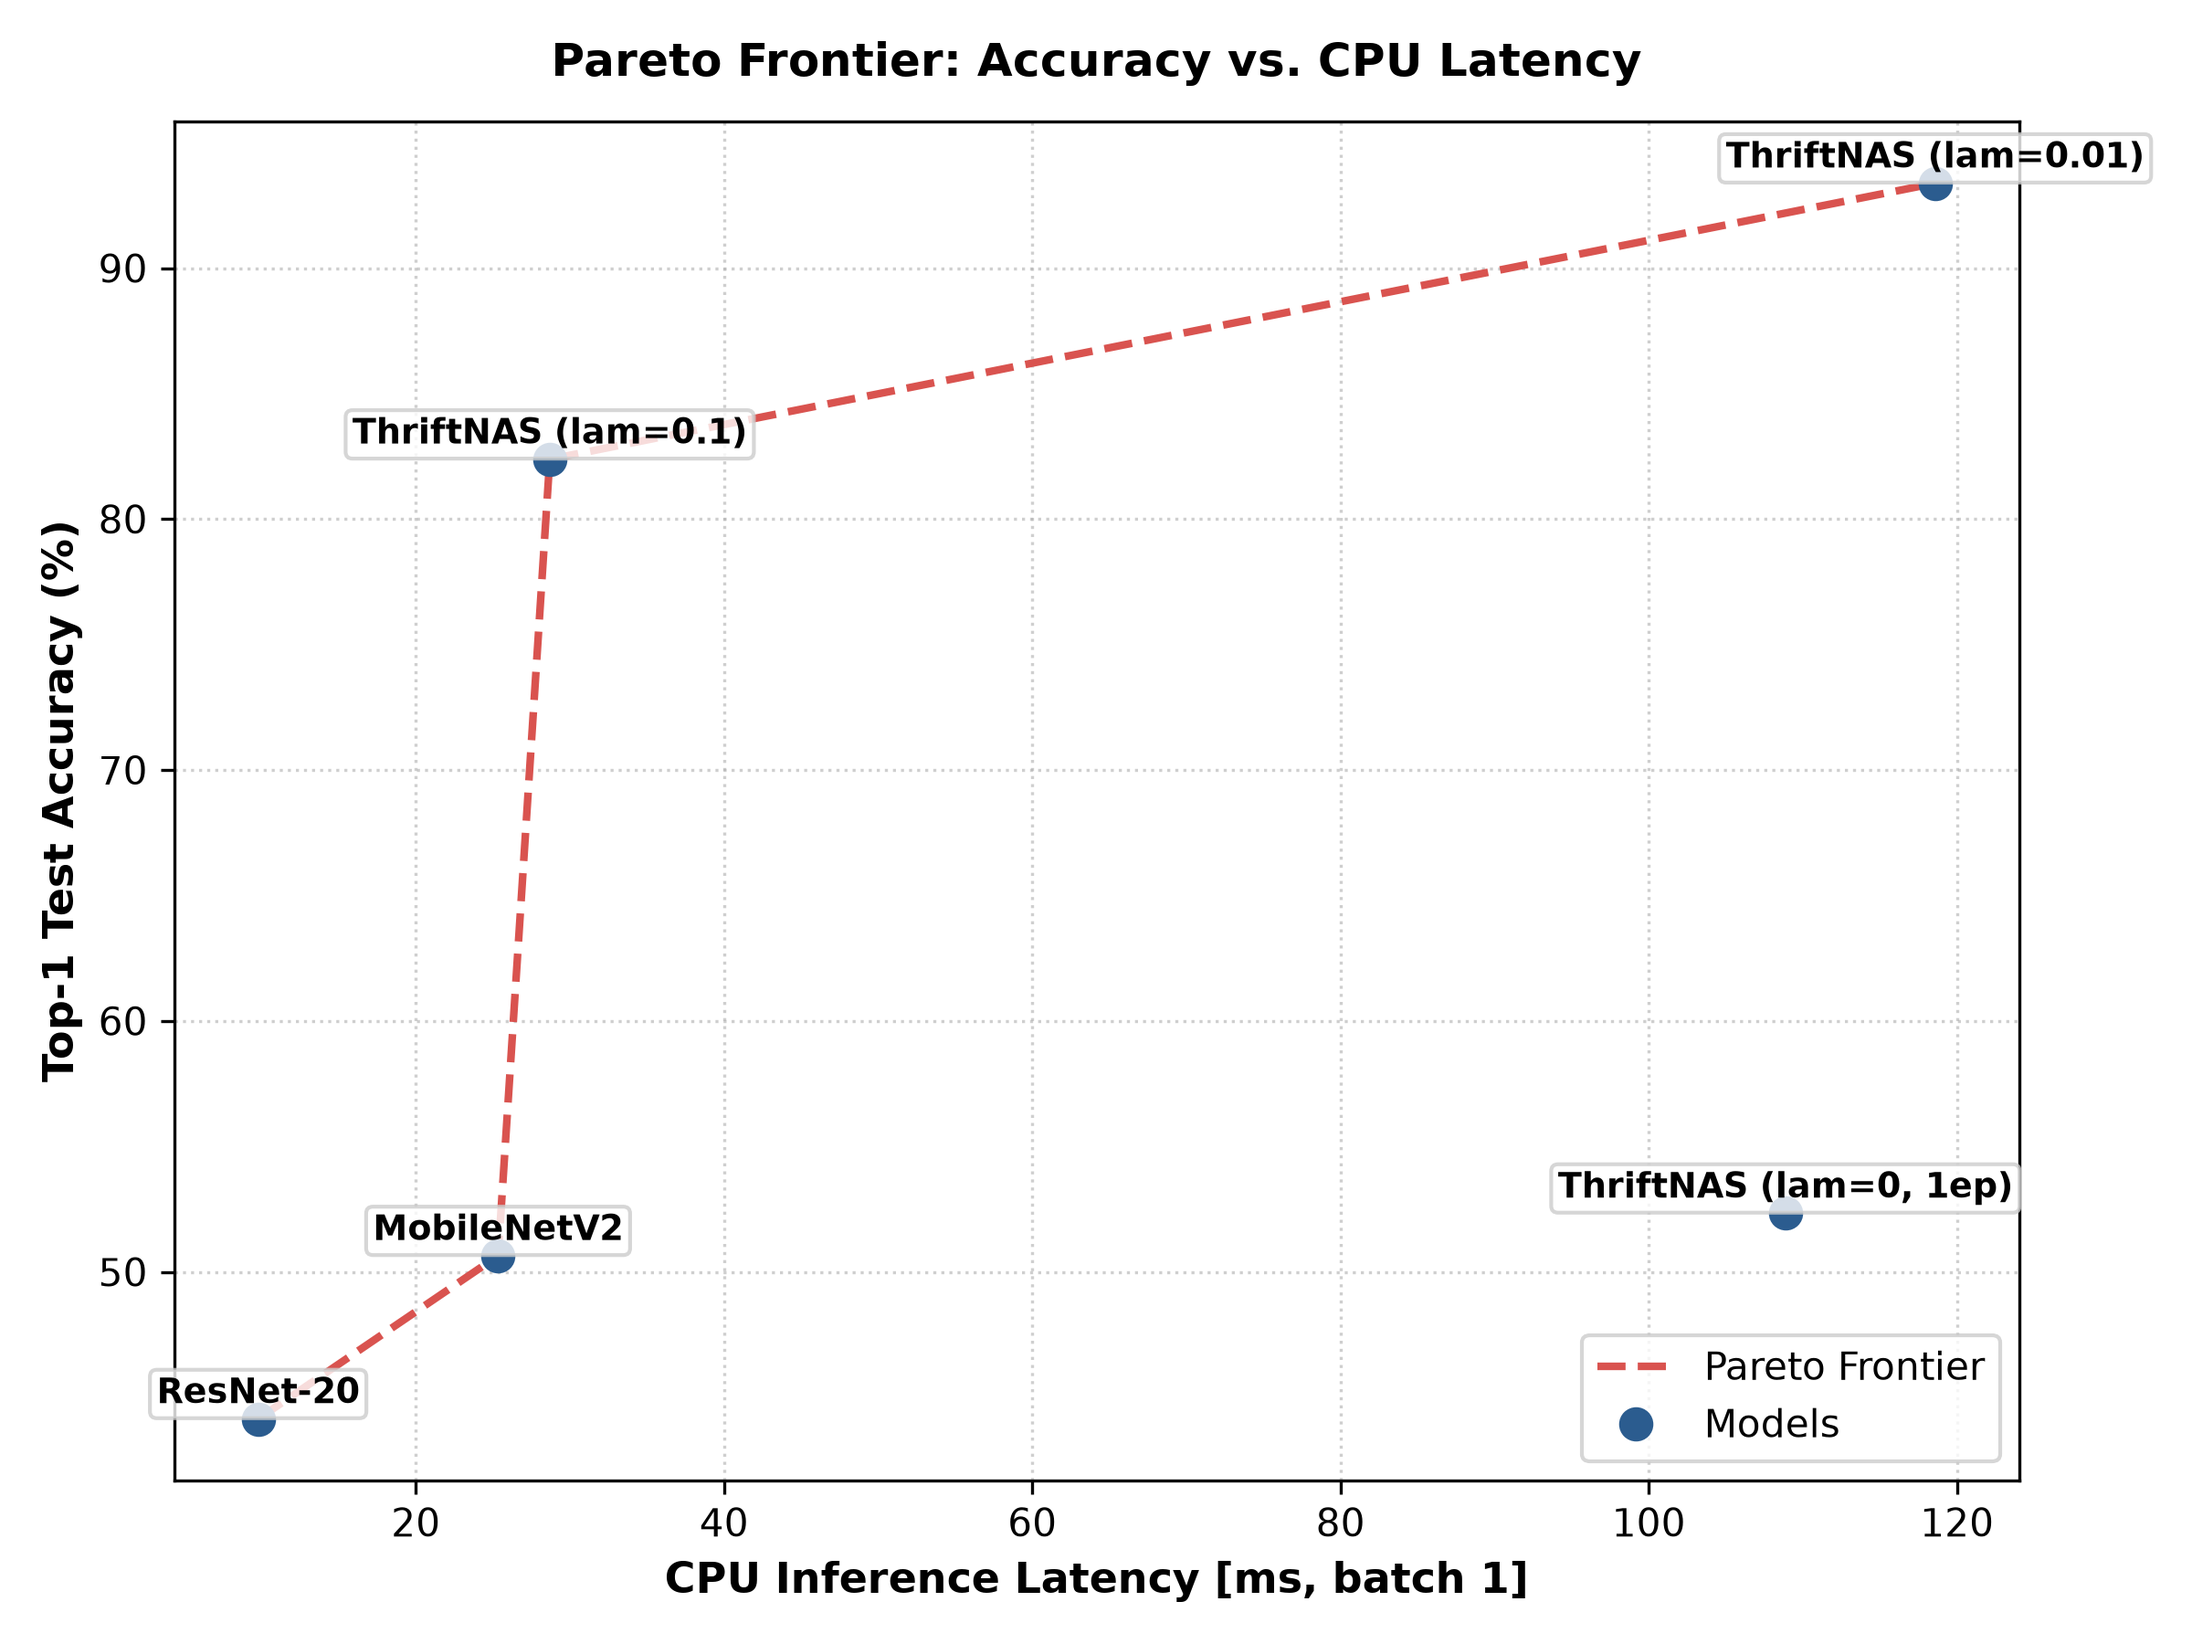
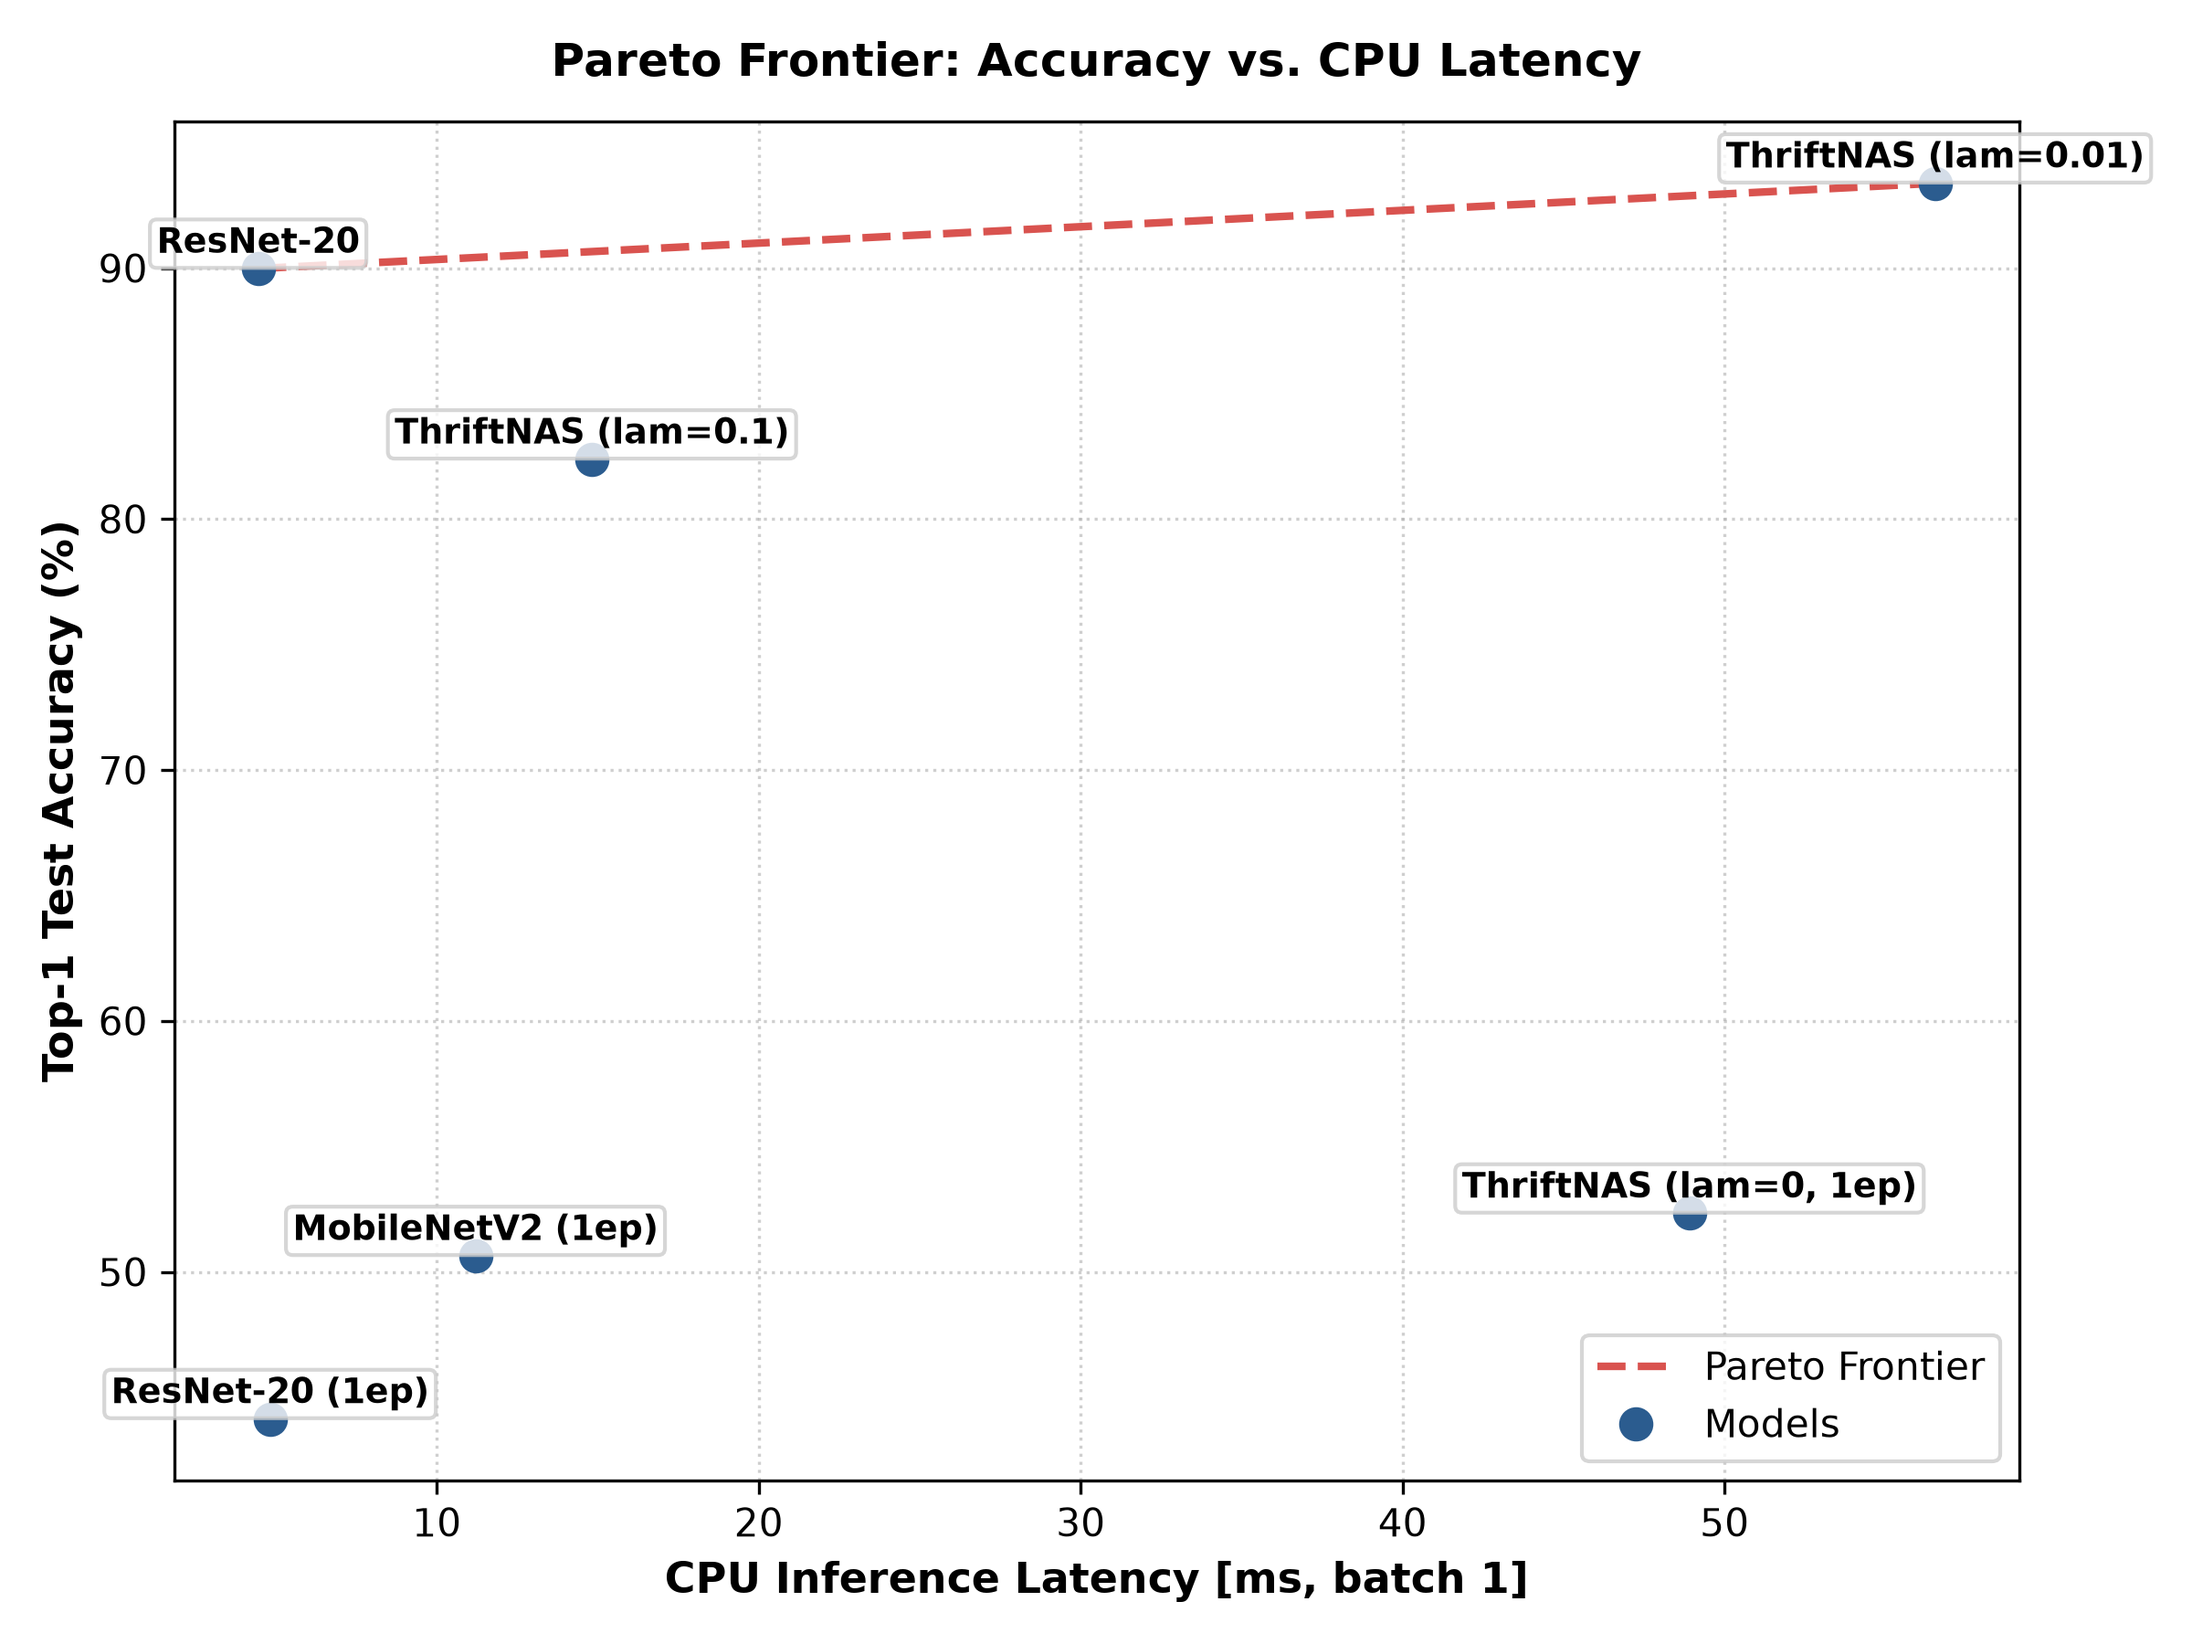
feat: incorporate 50-epoch ResNet-20 results (89.98% acc) and update benchmarks

diff --git a/evaluate.py b/evaluate.py
@@ -65,6 +65,10 @@ def _find_final_metrics(results_dir: Path) -> list[Path]:
 def _normalize_model_name(name: str) -> str:
     """Normalize model naming for reports."""
     name_lower = name.lower().replace("-", "_")
+    if "baselines_t6" in name_lower and "resnet" in name_lower:
+        return "ResNet-20 (1ep)"
+    if "baselines_t6" in name_lower and "mobilenet" in name_lower:
+        return "MobileNetV2 (1ep)"
     if "resnet20" in name_lower:
         return "ResNet-20"
     if "mobilenet" in name_lower:
@@ -92,7 +96,10 @@ def _load_and_enrich_metrics(
         data: dict[str, Any] = json.load(fh)
 
     folder = json_path.parent
-    model_name = data.get("model") or folder.name
+    if "baselines_t6" in str(json_path):
+        model_name = f"baselines_t6_{folder.name}"
+    else:
+        model_name = data.get("model") or folder.name
     model_display = _normalize_model_name(model_name)
 
     weights_file = folder / "model_weights.pt"

diff --git a/results/results.md b/results/results.md
@@ -4,8 +4,9 @@
 
 | Model | Top-1 (%) | Params (M) | MACs (M) | Size (MB) | CPU latency (ms, mean +/- std) | Predicted latency (ms) | Prediction error (%) | Search GPU-hours |
 | --- | --- | --- | --- | --- | --- | --- | --- | --- |
-| MobileNetV2 | 50.64 (1 seed) | 2.2367 | 91.28 | 8.77 | 25.34 +/- 2.02 (1 seed) | - | - | - |
-| ResNet-20 | 44.14 (1 seed) | 0.2725 | 41.22 | 1.09 | 9.77 +/- 1.44 (1 seed) | - | - | - |
-| ThriftNAS (lam=0.01) | 93.38 (1 seed) | 1.2750 | 223.58 | 5.15 | 118.58 +/- 9.72 (1 seed) | 11.75 | 90.1 | - |
-| ThriftNAS (lam=0.1) | 82.38 (1 seed) | 0.4952 | 101.09 | 1.94 | 28.69 +/- 1.79 (1 seed) | 0.49 | 98.3 | - |
-| ThriftNAS (lam=0, 1ep) | 52.33 (1 seed) | 1.7153 | 280.41 | 6.92 | 108.87 +/- 7.62 (1 seed) | 12.47 | 88.5 | - |
+| ResNet-20 | 89.98 (1 seed) | 0.2725 | 41.22 | - | 4.45 +/- 0.78 (1 seed) | - | - | - |
+| MobileNetV2 (1ep) | 50.64 (1 seed) | 2.2367 | 91.28 | 8.77 | 11.20 +/- 1.96 (1 seed) | - | - | - |
+| ResNet-20 (1ep) | 44.14 (1 seed) | 0.2725 | 41.22 | 1.09 | 4.82 +/- 1.08 (1 seed) | - | - | - |
+| ThriftNAS (lam=0.01) | 93.38 (1 seed) | 1.2750 | 223.58 | 5.15 | 56.54 +/- 8.58 (1 seed) | 11.75 | 79.2 | - |
+| ThriftNAS (lam=0.1) | 82.38 (1 seed) | 0.4952 | 101.09 | 1.94 | 14.82 +/- 2.87 (1 seed) | 0.49 | 96.7 | - |
+| ThriftNAS (lam=0, 1ep) | 52.33 (1 seed) | 1.7153 | 280.41 | 6.92 | 48.91 +/- 8.38 (1 seed) | 12.47 | 74.5 | - |
